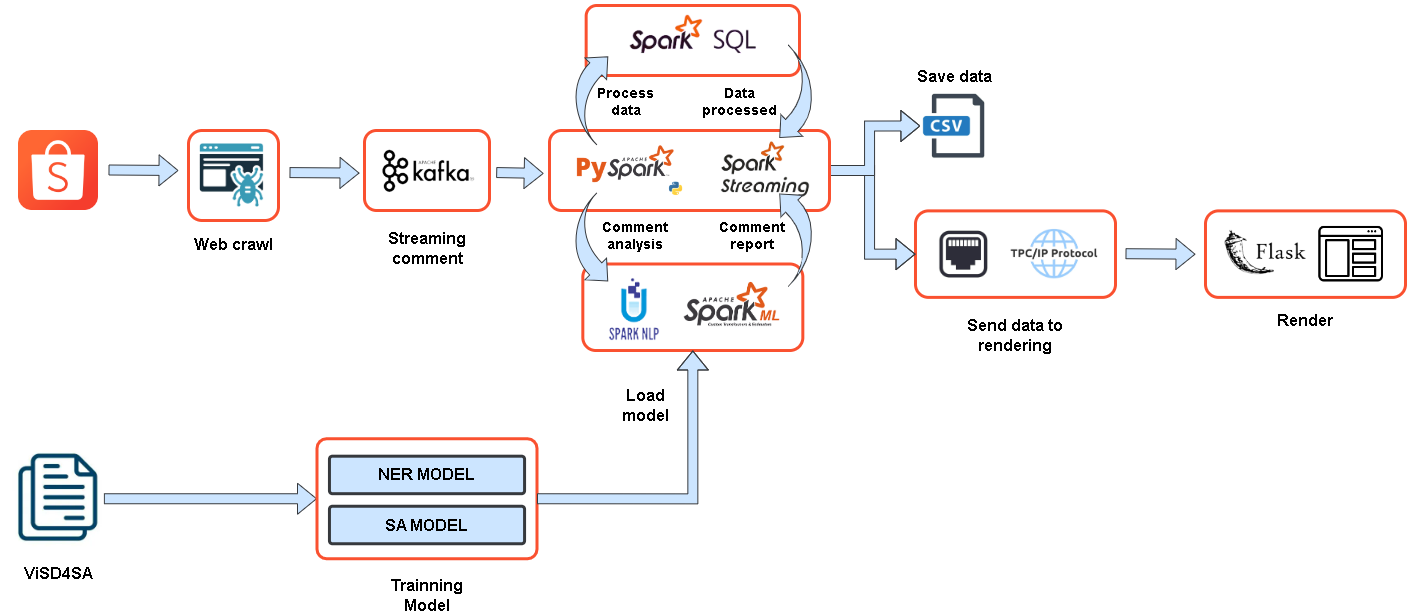
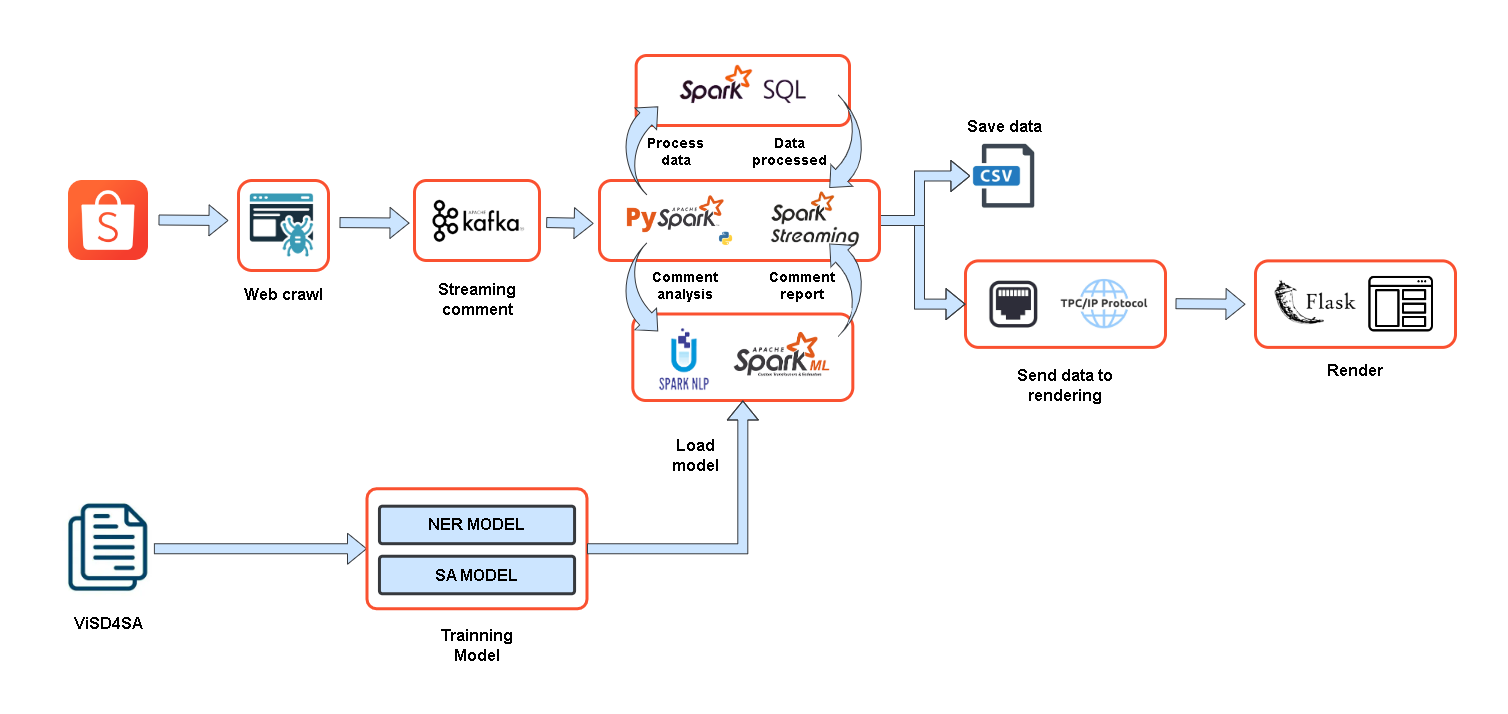
Fix timeout, add img into README

Changed region(s): [[0.0, 0.0, 1.0, 1.0], [0.0312, 0.9283, 0.0625, 0.9593]]

diff --git a/consumer.py b/consumer.py
@@ -31,6 +31,8 @@ spark = SparkSession.builder \
                     .config("spark.sql.execution.arrow.maxRecordsPerBatch", "16") \
                     .config("spark.sql.streaming.forceDeleteTempCheckpointLocation", True) \
                     .config("spark.jars.packages", ",".join(packages))\
+                    .config("spark.executor.heartbeatInterval", "3600s") \
+                    .config("spark.network.timeout", "4000s") \
                     .getOrCreate()
 
 spark.sparkContext.setLogLevel("error")
@@ -79,15 +81,16 @@ resultDF = pipeline.fit(cleanDF).transform(cleanDF)
 def send_record_to_server(record):
     url = "http://127.0.0.1:5000/"
 
-    response = requests.post(url, json=record.asDict())
+    try:
+        response = requests.post(url, json=record.asDict())
+    except:
+        pass
 
 from dotenv import load_dotenv
 load_dotenv()
 
 import os
-
-output_path         = os.getenv('ROOT_PATH') + "/database/"
-
+output_path = os.getenv('ROOT_PATH') + "/database/"
 if (not os.path.exists(output_path)):
     os.mkdir(output_path)
 

diff --git a/README.md b/README.md
@@ -1,6 +1,25 @@
 # IE212-ABSA
 Xây dựng Hệ thống Phân tích Dựa trên Khía cạnh Cảm xúc (ABSA) Trực tuyến sử dụng Spark và Kafka trên Dữ liệu Bình luận từ Shopee.
 
+[**Link báo cáo**](https://www.overleaf.com/read/vsksgcnrkyjk#777b93)
+
+![System overall](./images/overall.png)
+![Web](./images/web.png)
+
+## Module online
+
+![Online](./images/online.png)
+
+## Module offline
+
+![Offline](./images/offline.png)
+
+## Module predict
+
+![Predict](./images/predict.png)
+
+# Hướng dẫn thực nghiệm
+
 ## Bước 1: Tải mô hình
 [**Link tải mô hình**](https://drive.google.com/drive/folders/1ChxaZdyyBja2ygICWN3dBMssinhuXRWA?usp=sharing)
 
